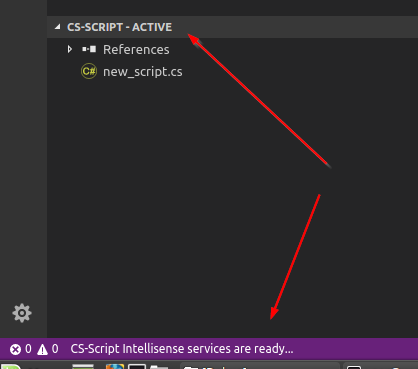
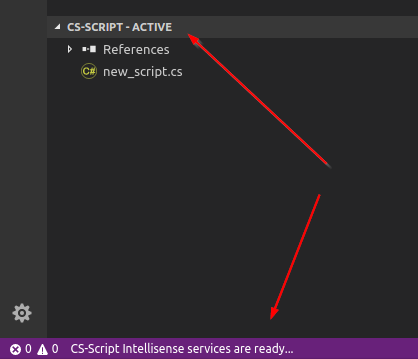
- Preparing readme.md for release

diff --git a/README.md b/README.md
@@ -232,7 +232,7 @@ The extension comes with C# 7 support (via Roslyn) enabled by default. However R
 
 A good indication of the extension being ready for Intellisense operations is the script project tree being populated and the status bar having "CS-Script ready" message at status bar. Note, the message stays only for 5 seconds:
 
-![image](https://github.com/oleg-shilo/cs-script.vscode/raw/master/images/syntaxer_ready.gif) 
+![image](https://github.com/oleg-shilo/cs-script.vscode/raw/master/images/syntaxer_ready.png) 
 
 Roslyn team did a good job by caching runtime instances of the compilers thus any consequent compilations will require only milliseconds to be accomplished. Unfortunately on Linux/Mono the same caching mechanism is not available so the compilation will consistently take up to 1.5 seconds (tested on VMWare Mint 18.1 4GB RAM on i7-5500U 2*2.40 GHz). Hopefully Roslyn team will extend runtime caching in the future releases of Mono.
 
